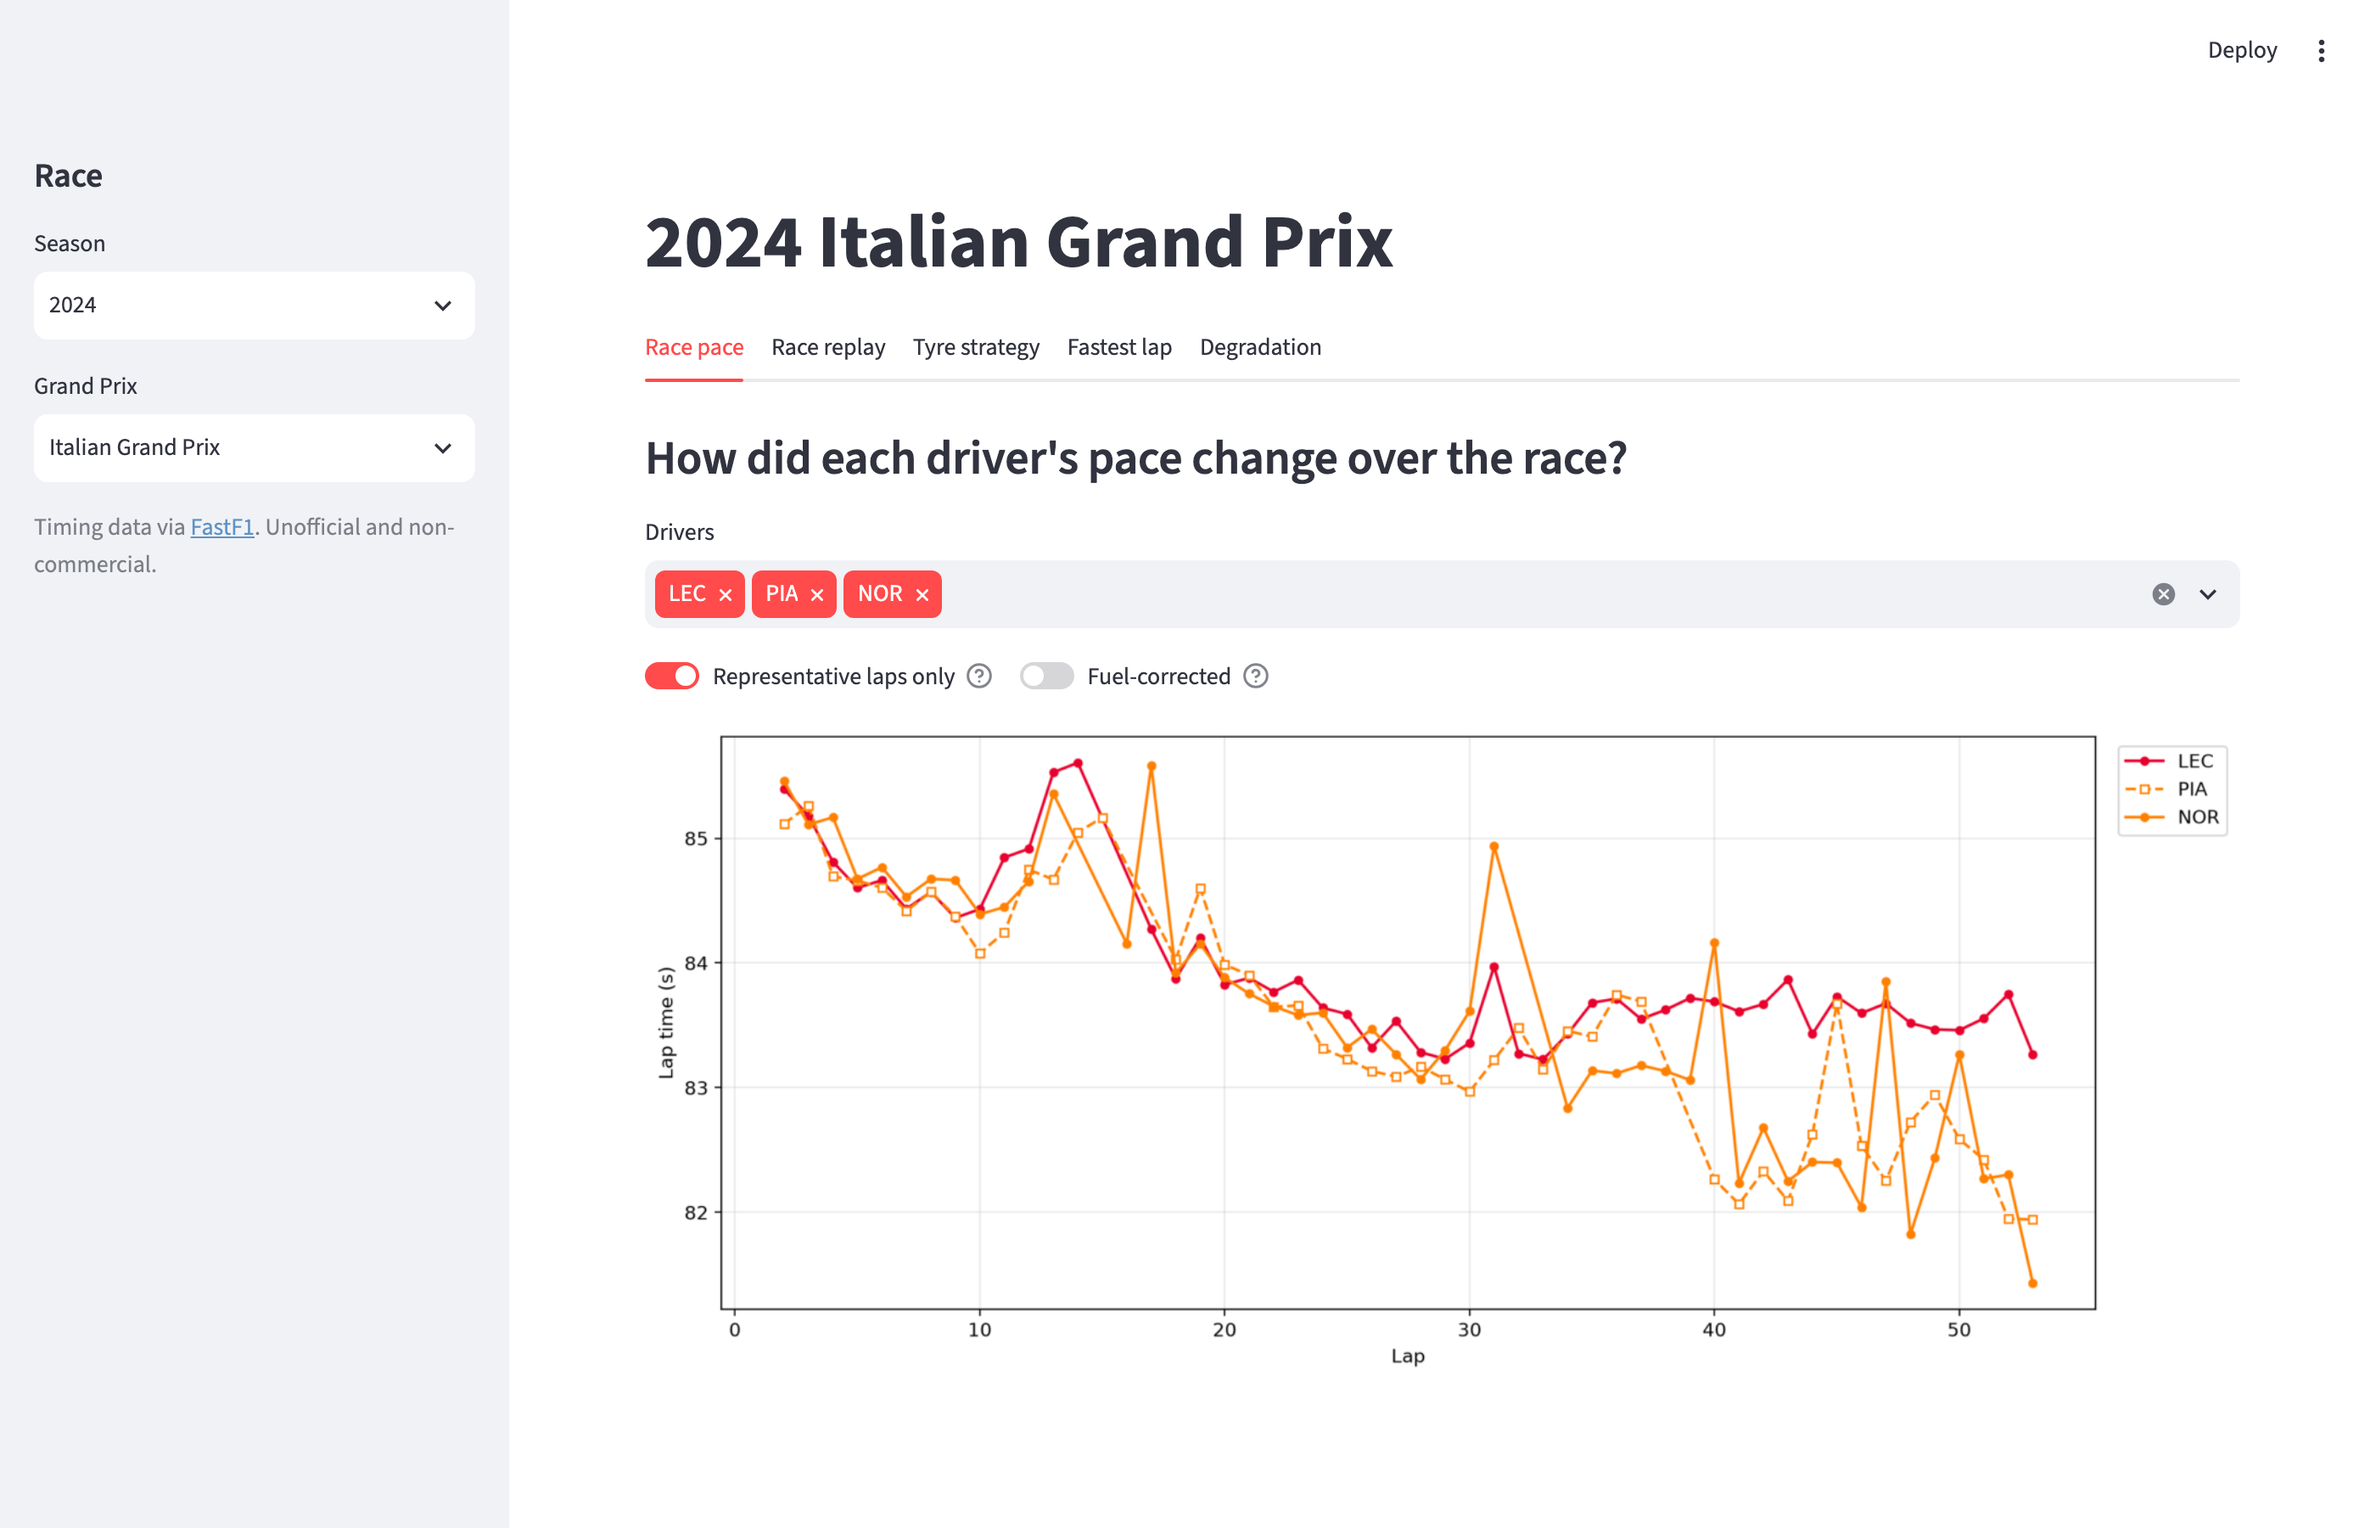
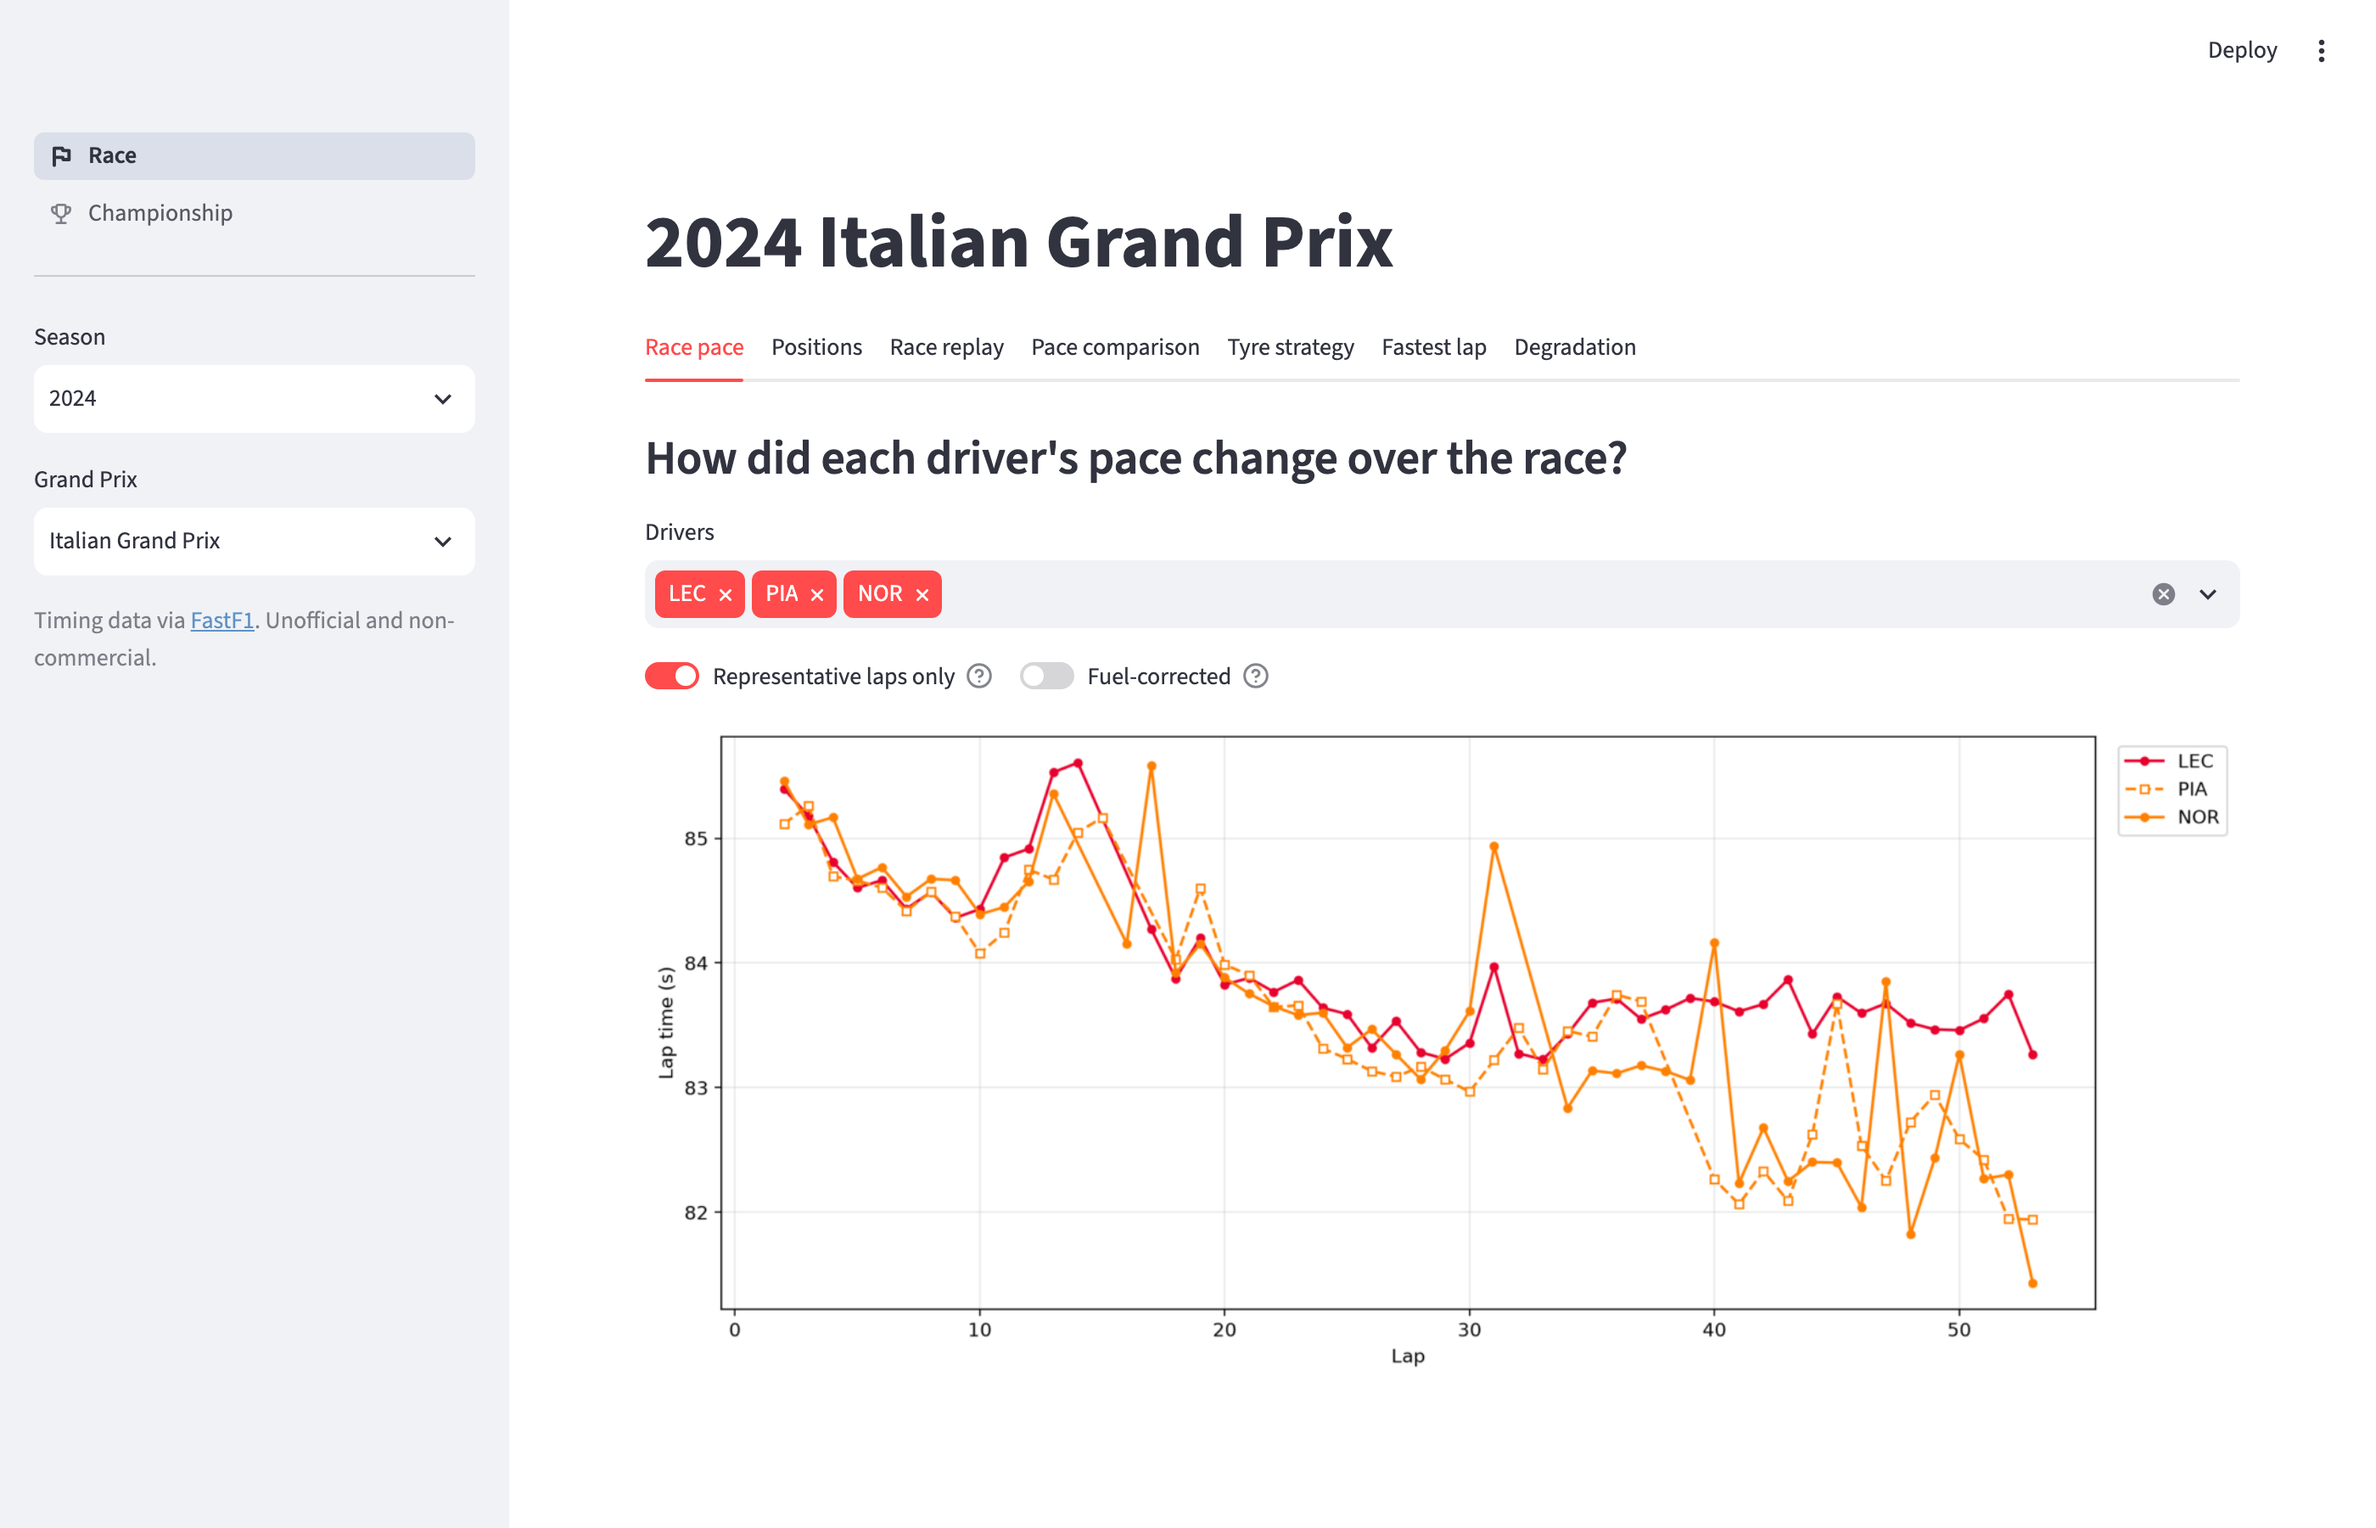
Update README

diff --git a/README.md b/README.md
@@ -1,22 +1,36 @@
 # Formula Analyst
 
-Race analysis dashboard built on [FastF1](https://github.com/theOehrly/Fast-F1) timing data. Pick a Grand Prix and see how the race played out: lap-by-lap pace, a replay of the race on a circuit map, tyre strategies, fastest-lap telemetry and tyre degradation.
+Race analysis dashboard built on [FastF1](https://github.com/theOehrly/Fast-F1) timing data. Pick a Grand Prix and see how the race played out, or follow a whole championship season. Every race from 2018 to the latest 2026 round is included.
 
 ![Race pace](docs/pace.png)
 
 ## Features
 
+**Race**
+
 - **Race pace.** Lap times for any set of drivers. Optionally limited to representative laps (no pit in/out laps, no laps under safety car or flags, no laps FastF1 marks as inaccurate) and fuel-corrected.
+- **Positions.** Every driver's position lap by lap, with selected drivers highlighted.
 - **Race replay.** Every car on a map of the circuit through the whole race, with the running order alongside. Play it or drag the slider lap by lap.
+- **Pace comparison.** Each team's lap time spread, ordered by median pace, and each driver's lap time distribution coloured by tyre compound.
 - **Tyre strategy.** Every driver's stints, coloured by compound and ordered by finishing position.
-- **Fastest lap.** Speed against distance for two drivers' fastest laps, with corner markers.
+- **Fastest lap.** Speed against distance for two drivers' fastest laps, with corner markers, and the same laps on a track map coloured by speed or by who was quicker in each mini-sector.
 - **Degradation.** Per-stint degradation rate from a linear fit of fuel-corrected lap time against tyre age, summarised by compound.
+
+**Championship**
+
+- Standings after any round, with each driver's maximum possible points and whether they can still win the title.
+- Points progression through the season.
+- Points per round for every driver, race and sprint combined.
 
 ![Race replay](docs/replay.png)
 
-| Tyre strategy | Fastest lap |
+| Positions | Pace comparison |
 | --- | --- |
+| ![Positions](docs/positions.png) | ![Pace comparison](docs/comparison.png) |
+| **Tyre strategy** | **Fastest lap** |
 | ![Tyre strategy](docs/strategy.png) | ![Fastest lap](docs/fastest-lap.png) |
+
+![Championship](docs/championship.png)
 
 ## Running locally
 
@@ -31,18 +45,19 @@ streamlit run app.py
 
 ## Race data
 
-Every race from 2018 to the latest 2026 round ships with the app in `data/` (about 24 MB), as compact Parquet files with the lap table, each driver's fastest-lap speed trace and the track outline. The one exception is the 2018 Italian Grand Prix, whose tyre data FastF1 can't process. The live timing service rejects requests from many hosting providers, Streamlit Community Cloud included, so the deployed app reads only this bundle.
+Every race from 2018 to the latest 2026 round ships with the app in `data/` (about 24 MB), as compact Parquet files with the lap table, each driver's fastest-lap speed trace and the track outline. The one exception is the 2018 Italian Grand Prix, whose tyre data FastF1 can't process. Each season also has its race and sprint results and its calendar. The live timing service rejects requests from many hosting providers, Streamlit Community Cloud included, so the deployed app reads only this bundle.
 
 When the live timing service is reachable, as it usually is on a home connection, the app also downloads races that aren't bundled. The first download of a race takes about a minute and is cached in `cache/`.
 
-To add new races, for example after a race weekend:
+To add new races and update the championship, for example after a race weekend:
 
 ```bash
 python -m src.sync 2026
 python -m src.sync 2023 --event Monza --event Silverstone --force
+python -m src.sync 2026 --results-only
 ```
 
-Saved races are skipped unless `--force` is passed. FastF1 allows 500 requests an hour, roughly 20 races; when the limit is reached the command stops and can be run again later to continue. Set `FORMULA_ANALYST_OFFLINE=1` to run the app the way it runs when deployed, with bundled races only.
+Saved races are skipped unless `--force` is passed, and `--results-only` updates the championship without downloading races. FastF1 allows 500 requests an hour, roughly 20 races; when a limit is reached the command stops and can be run again later to continue. Set `FORMULA_ANALYST_OFFLINE=1` to run the app the way it runs when deployed, with bundled races only.
 
 ## Development
 
@@ -54,25 +69,35 @@ ruff format --check .
 ```
 
 ```
-app.py             Streamlit UI
-src/analysis.py    lap filtering, stint and degradation analysis, charts
-src/races.py       loading races from FastF1 or the bundle, saving bundles
-src/sync.py        command line tool that bundles races
-data/              bundled races
-tests/             unit tests
+app.py                  page navigation
+views/race.py           race page
+views/championship.py   championship page
+views/data.py           cached data loading for both pages
+src/analysis.py         race analysis and charts
+src/championship.py     standings, title maths and championship charts
+src/races.py            loading races from FastF1 or the bundle, saving bundles
+src/seasons.py          loading and saving season results
+src/sync.py             command line tool that builds the bundle
+data/                   bundled races and season results
+tests/                  unit tests
 ```
 
-`src/analysis.py` works on plain pandas DataFrames and has no FastF1 or Streamlit dependency.
+Everything in `src/` works on plain pandas DataFrames and has no Streamlit dependency; only `src/races.py`, `src/seasons.py` and `src/sync.py` use FastF1.
 
 ## Methodology
 
 - **Fuel correction** subtracts `fuel_effect × laps remaining` from each lap time, normalising every lap to an empty tank. The default is 0.055 s per lap of fuel and can be changed in the app.
 - **Degradation** is the slope of a least-squares line through fuel-corrected lap time against tyre age, fitted per stint. Stints shorter than the configurable minimum (8 laps by default) are skipped.
 - A straight line is a simplification: tyre warm-up at the start of a stint and the drop-off at the end are averaged into one number.
+- **Positions** are the order in which drivers completed each lap. They match FastF1's own position data.
+- **Pace comparison** uses representative laps within 107% of the fastest one, the same quick-lap threshold as FastF1.
+- **Mini-sectors** split the fastest lap into 25 equal distances. A driver's time through each one comes from integrating their speed trace.
 - **Race replay** positions come from each lap's start and end times. Within a lap, cars follow the speed profile of the winner's fastest lap, so they slow down in corners rather than moving at constant speed. The order shown is the order on track, before any penalties. Track outlines come from the MultiViewer circuit data that FastF1 uses; the 2020 Sakhir and 2026 Spanish Grand Prix have none.
+- **Championship standings** add up race and sprint points after each round and break ties by countback over classified finishes. They match the official standings for every bundled season.
+- **Who can still win** compares the leader's points with each driver's points plus the most still available: a race win (and the fastest-lap point from 2019 to 2024) for every remaining round, plus a sprint win where there is one.
 
 ## Data and license
 
-Timing data is provided by FastF1, and the bundled data is derived from it. This is an unofficial, non-commercial project and is not affiliated with any racing series or its rights holders.
+Timing data is provided by FastF1, and the bundled data is derived from it. Race and sprint results come from the [Jolpica F1 API](https://github.com/jolpica/jolpica-f1), the successor to Ergast, through FastF1. This is an unofficial, non-commercial project and is not affiliated with any racing series or its rights holders.
 
 Released under the [MIT License](LICENSE).
